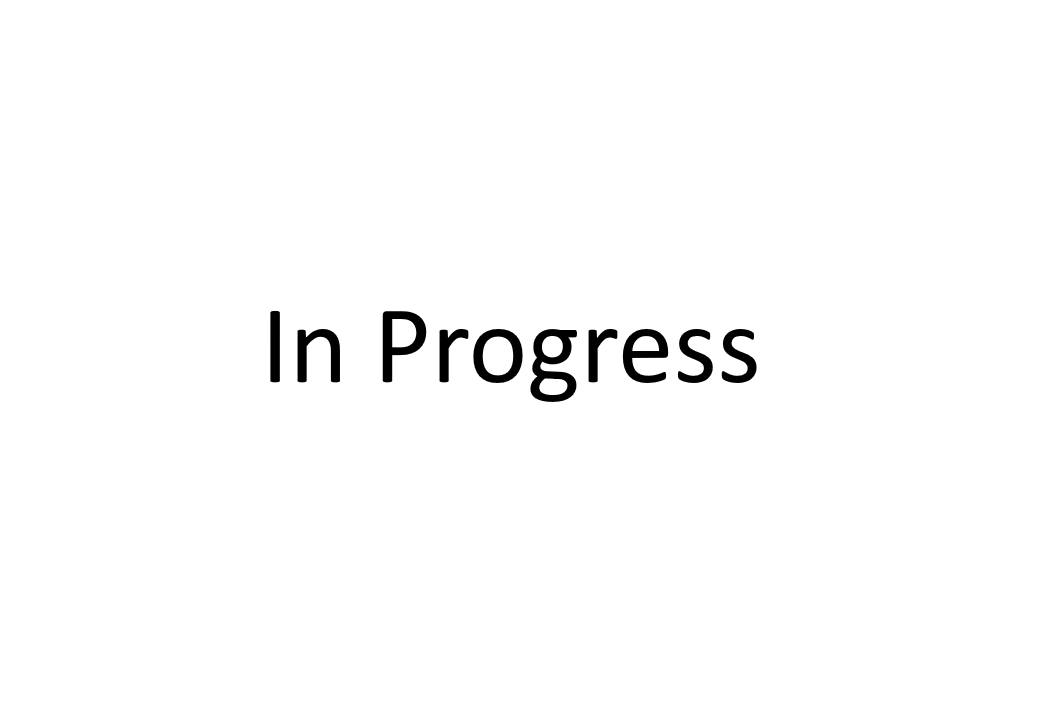
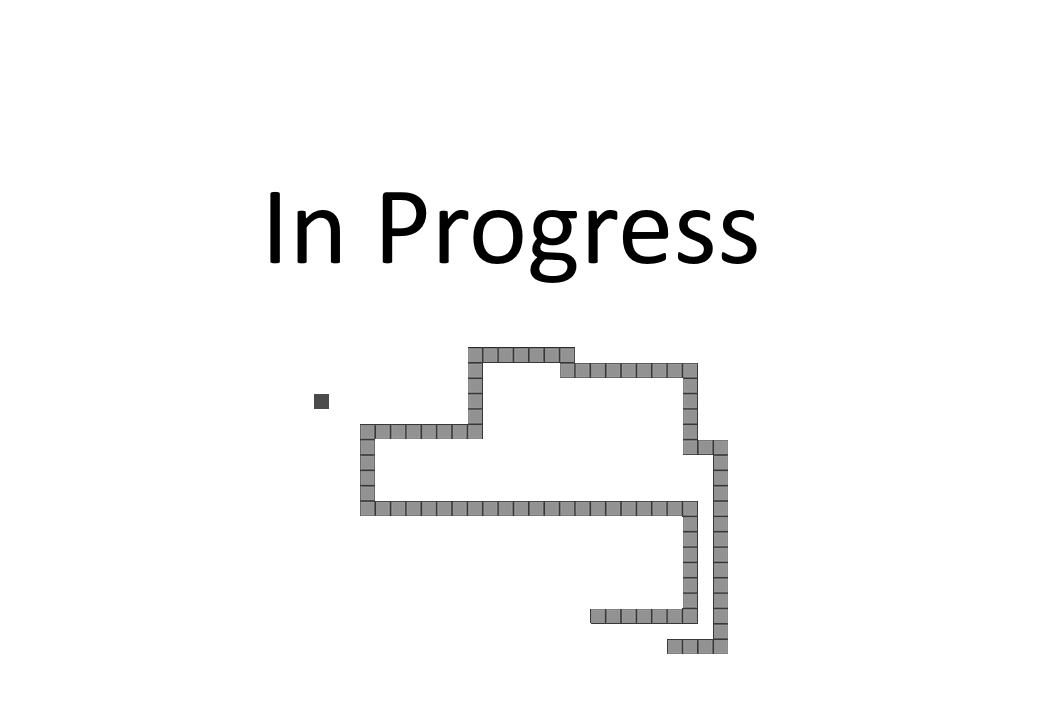
Fixed Bomb Duster Image. #28 Updated new game image and description

diff --git a/PersonalWebsite/src/app/game-arcade/arcade-page.component.ts b/PersonalWebsite/src/app/game-arcade/arcade-page.component.ts
@@ -35,8 +35,8 @@ export class ArcadePageComponent implements OnInit {
     }, {
       routerLink: "",
       imageSource: "../../assets/Arcade/InProgress.png",
-      title: "IN PROGRESS",
-      description: "Lorem ipsum dolor sit amet, consectetur adipiscing elit. Fusce porttitor ligula porttitor, lacinia sapien non."
+      title: "IN PROGRESSSSSSSSSS",
+      description: "Lorem ipsum dolor blah blah blah. New game might be snake.... Might not, you'll just have to wait."
     }];
   }
 
